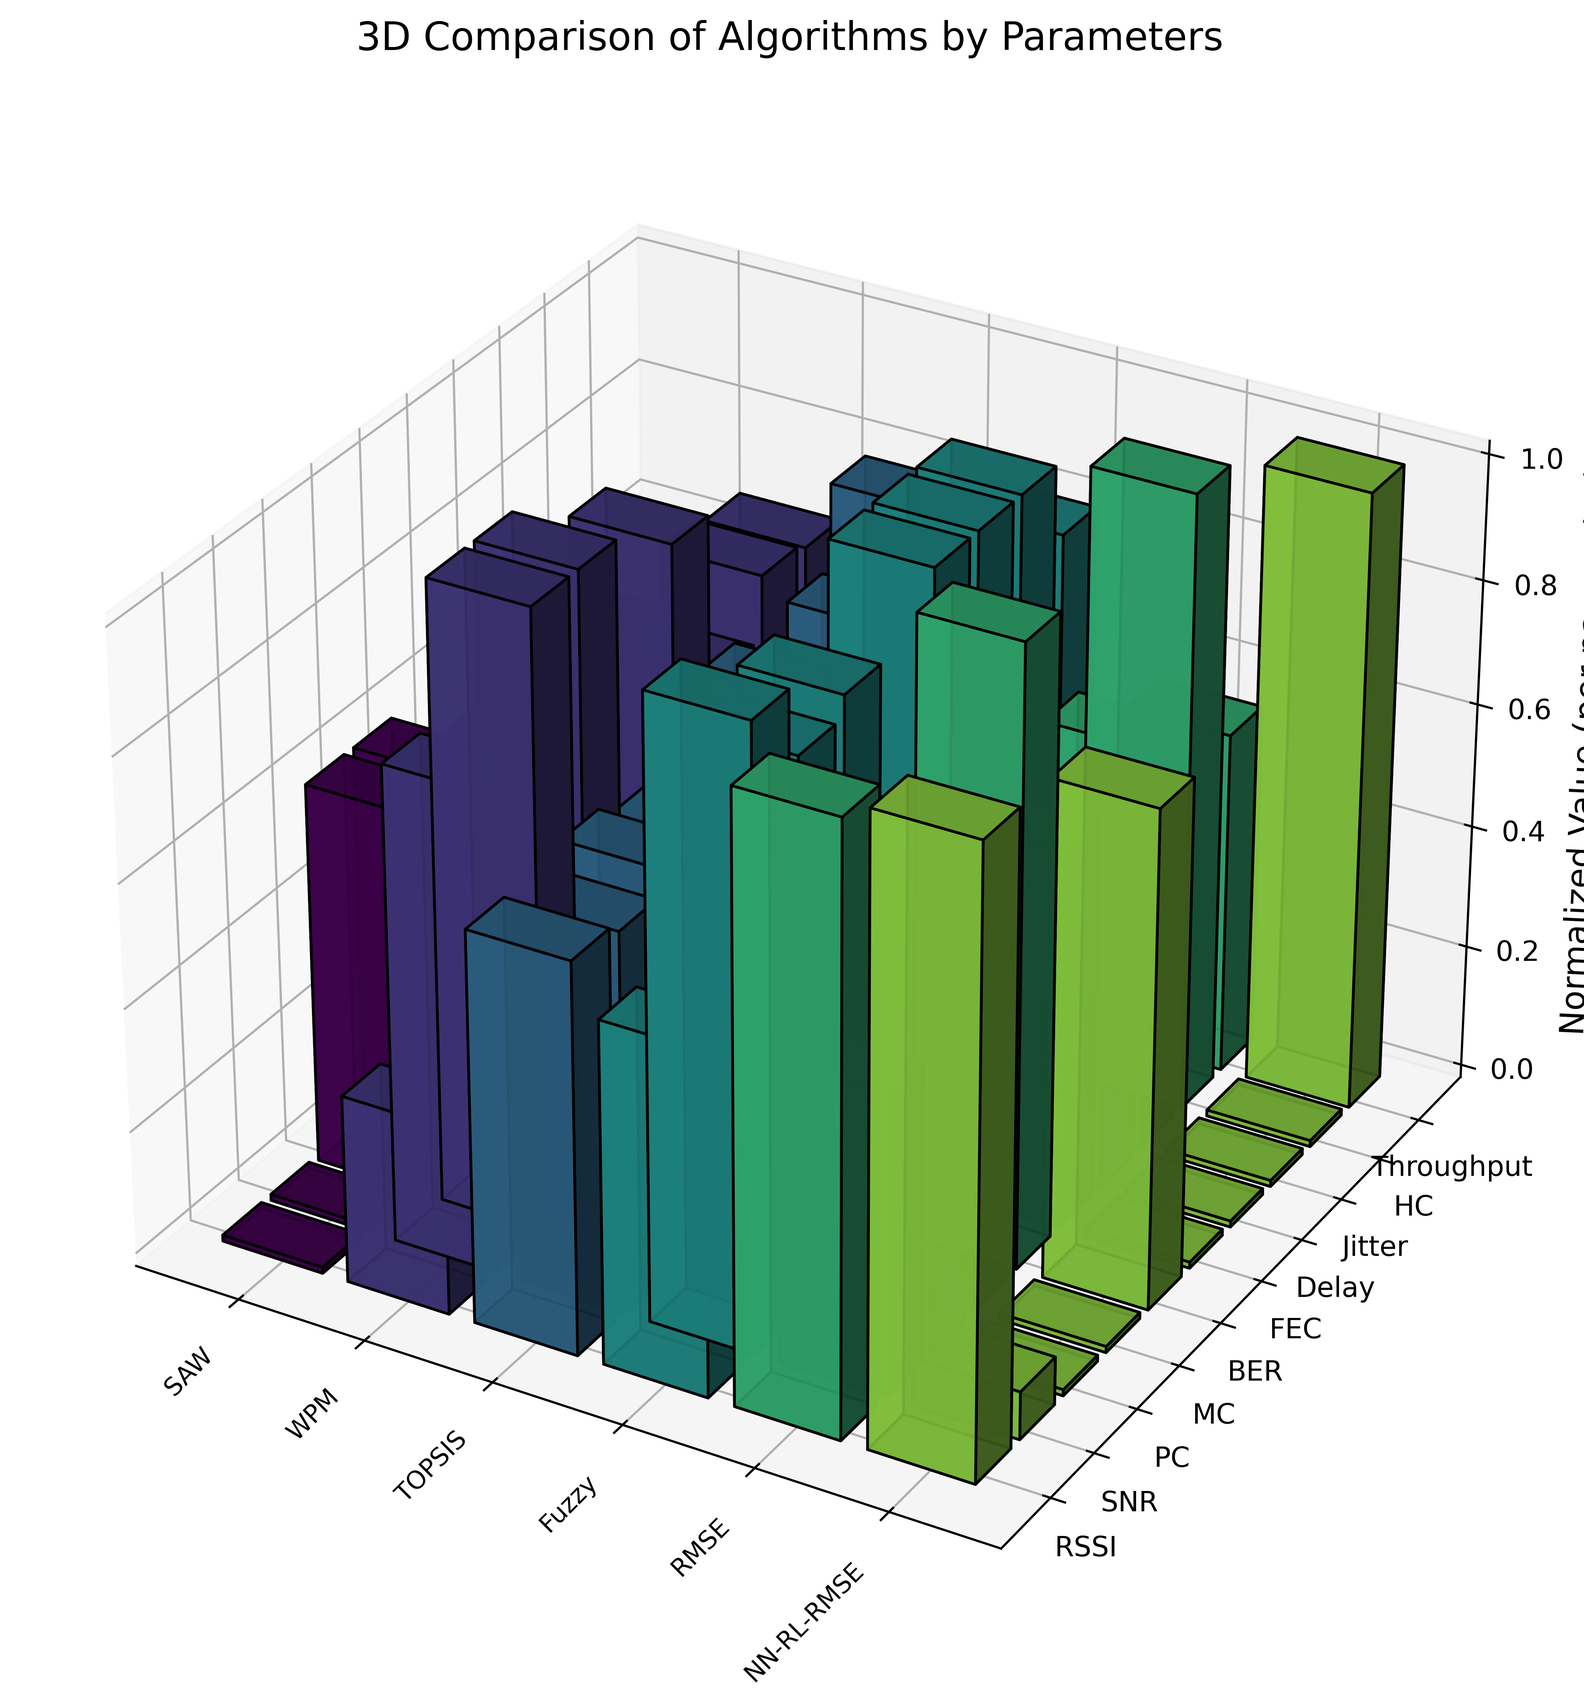
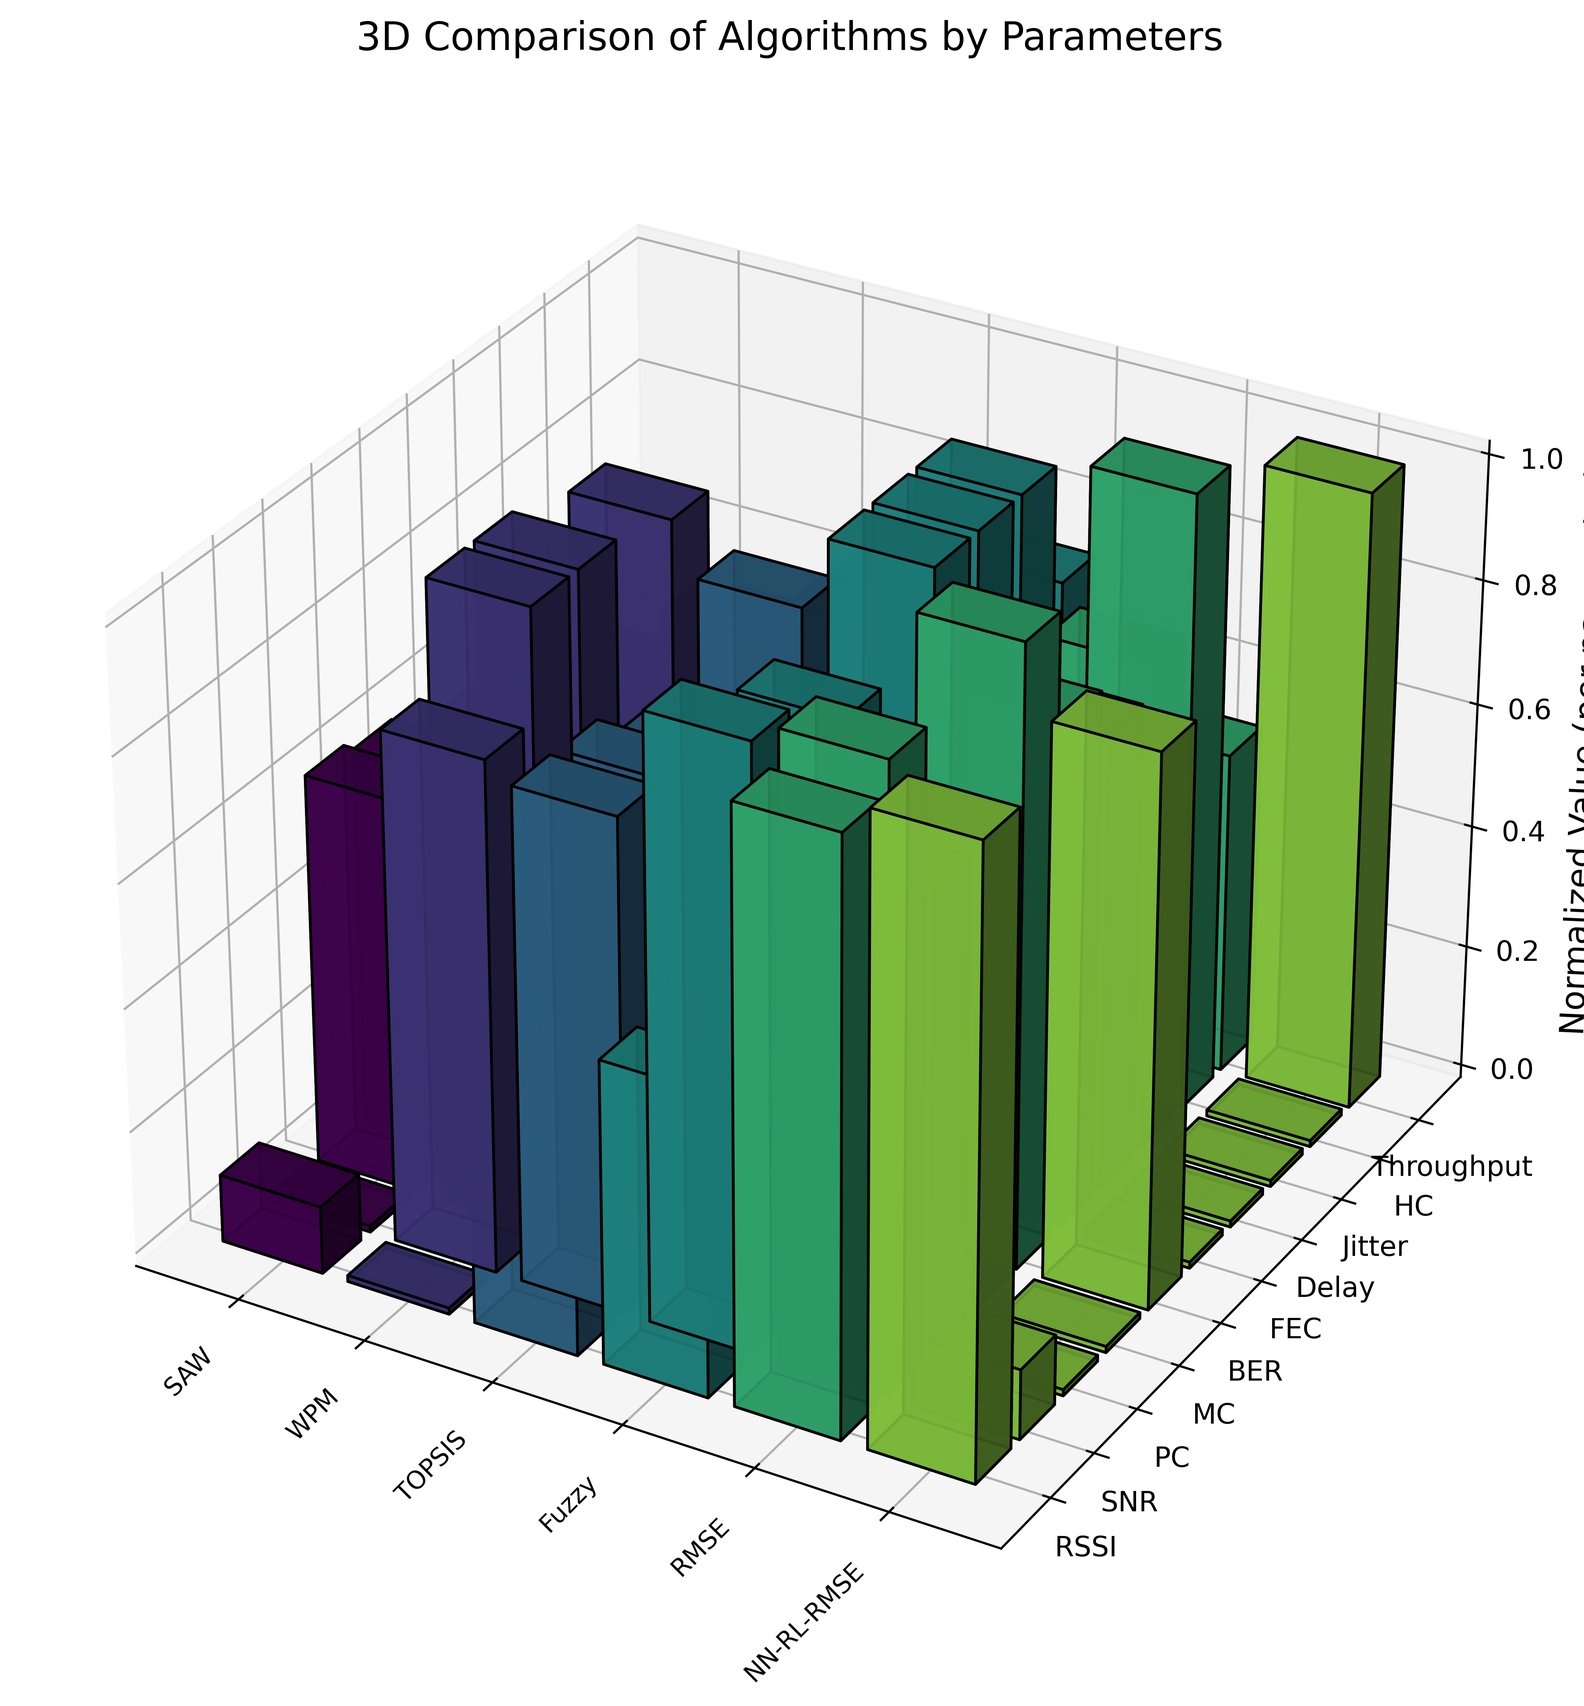
updates

Changed region(s): [[0.1246, 0.2486, 0.5916, 0.7768], [0.6539, 0.2797, 0.8096, 0.7147], [0.6228, 0.7768, 0.685, 0.8079]]

diff --git a/VerticalHandoverSimulation.py b/VerticalHandoverSimulation.py
@@ -52,7 +52,7 @@ GUI = False
 verbose = False
 
 # Number of simulations
-n_simulations = 30
+n_simulations = 100
 
 # Iteration x Simulations
 iter_x_simu = n_simulations * n
@@ -1979,6 +1979,7 @@ def print_handover_summary():
         ho_total = sum(handovers.get(name, []))
         hf_exec = getattr(dm, 'hf_execution', 0)
         hf_late = getattr(dm, 'hf_too_late', 0)
+        hf_early = getattr(dm, 'hf_too_early', 0)
         hf_total = hf_exec + hf_late + hf_early
         off_time = s['steps'] * 0.1                   # seconds
         off_fail_time = (s['steps'] - s['no_coverage_steps']) * 0.1

diff --git a/outputs/sim_13/results.md b/outputs/sim_13/results.md
@@ -1,0 +1,162 @@
+========================================================================================================================
+HANDOVER SUMMARY (100 simulations)
+========================================================================================================================
+Algorithm                                         Total      Per simulation
+------------------------------------------------------------------------------------------------------------------------
+SAW            Handovers                           2201               22.01
+               HO failures (total)                  684                6.84
+                 - execution                        212                2.12
+                 - too-late (RLF)                   452                4.52
+                 - too-early (fallback)              20                0.20
+               Disconnections                       589                5.89
+               Time offline                     660.3 s              6.60 s
+                 - due to failures              660.3 s              6.60 s
+                 - no coverage                    0.0 s              0.00 s
+------------------------------------------------------------------------------------------------------------------------
+WPM            Handovers                           2083               20.83
+               HO failures (total)                  907                9.07
+                 - execution                        168                1.68
+                 - too-late (RLF)                   728                7.28
+                 - too-early (fallback)              11                0.11
+               Disconnections                       767                7.67
+               Time offline                     892.5 s              8.93 s
+                 - due to failures              892.5 s              8.93 s
+                 - no coverage                    0.0 s              0.00 s
+------------------------------------------------------------------------------------------------------------------------
+TOPSIS         Handovers                           2995               29.95
+               HO failures (total)                 1064               10.64
+                 - execution                        271                2.71
+                 - too-late (RLF)                   772                7.72
+                 - too-early (fallback)              21                0.21
+               Disconnections                       896                8.96
+               Time offline                    1038.0 s             10.38 s
+                 - due to failures             1038.0 s             10.38 s
+                 - no coverage                    0.0 s              0.00 s
+------------------------------------------------------------------------------------------------------------------------
+Fuzzy          Handovers                           4106               41.06
+               HO failures (total)                 1217               12.17
+                 - execution                        306                3.06
+                 - too-late (RLF)                   889                8.89
+                 - too-early (fallback)              22                0.22
+               Disconnections                      1017               10.17
+               Time offline                    1189.2 s             11.89 s
+                 - due to failures             1189.2 s             11.89 s
+                 - no coverage                    0.0 s              0.00 s
+------------------------------------------------------------------------------------------------------------------------
+RMSE           Handovers                           6553               65.53
+               HO failures (total)                 1377               13.77
+                 - execution                        742                7.42
+                 - too-late (RLF)                   557                5.57
+                 - too-early (fallback)              78                0.78
+               Disconnections                      1133               11.33
+               Time offline                    1293.3 s             12.93 s
+                 - due to failures             1293.3 s             12.93 s
+                 - no coverage                    0.0 s              0.00 s
+------------------------------------------------------------------------------------------------------------------------
+NN-RL-RMSE     Handovers                            487                4.87
+               HO failures (total)                  244                2.44
+                 - execution                         52                0.52
+                 - too-late (RLF)                   190                1.90
+                 - too-early (fallback)               2                0.02
+               Disconnections                       199                1.99
+               Time offline                     242.1 s              2.42 s
+                 - due to failures              242.1 s              2.42 s
+                 - no coverage                    0.0 s              0.00 s
+------------------------------------------------------------------------------------------------------------------------
+========================================================================================================================
+Results: [{'RSSI': np.float64(-92.1376969333333), 'SNR': 9.81151133333333, 'Throughput': 25.31539738333335, 'PC': 0.8964999999999966, 'MC': 3.2347333333333324, 'BER': np.float64(0.0019000286860824515), 'FEC': np.float64(0.525368473289003), 'Delay': np.float64(517.890542875014), 'Jitter': np.float64(158.96020412967263), 'HC': 0.12974583333333325, 'Handover': 22.01, 'Algorithm': 'SAW'}, {'RSSI': np.float64(-91.40207943333337), 'SNR': 8.689801399999997, 'Throughput': 26.958051716666663, 'PC': 1.0700216666666627, 'MC': 3.8143666666666673, 'BER': np.float64(0.0018311562935052763), 'FEC': np.float64(0.4634746578068949), 'Delay': np.float64(492.6376147265227), 'Jitter': np.float64(167.64841186830367), 'HC': 0.1615416666666667, 'Handover': 20.83, 'Algorithm': 'WPM'}, {'RSSI': np.float64(-92.07382049999997), 'SNR': 9.092820733333332, 'Throughput': 27.184377150000003, 'PC': 0.9854833333333307, 'MC': 3.4386, 'BER': np.float64(0.0021320170454397764), 'FEC': np.float64(0.4750636169372104), 'Delay': np.float64(542.2003033931672), 'Jitter': np.float64(182.5585744810349), 'HC': 0.19624333333333324, 'Handover': 29.95, 'Algorithm': 'TOPSIS'}, {'RSSI': np.float64(-92.91026004999996), 'SNR': 9.013944350000001, 'Throughput': 23.868516066666672, 'PC': 0.9792941666666632, 'MC': 3.595916666666667, 'BER': np.float64(0.002182769193839308), 'FEC': np.float64(0.46112823431672484), 'Delay': np.float64(624.9121250248471), 'Jitter': np.float64(227.57589483722322), 'HC': 0.22498416666666665, 'Handover': 41.06, 'Algorithm': 'Fuzzy'}, {'RSSI': np.float64(-93.72254651666667), 'SNR': 8.956608283333338, 'Throughput': 24.740883566666668, 'PC': 0.9806074999999974, 'MC': 3.3500833333333344, 'BER': np.float64(0.002685865328112539), 'FEC': np.float64(0.4778890988693903), 'Delay': np.float64(585.2524269452862), 'Jitter': np.float64(195.36654675532398), 'HC': 0.2892841666666664, 'Handover': 65.53, 'Algorithm': 'RMSE'}, {'RSSI': np.float64(-95.25308816666667), 'SNR': 9.32060583333333, 'Throughput': 19.936270100000005, 'PC': 0.7053141666666639, 'MC': 2.495916666666666, 'BER': np.float64(0.0026461548318903335), 'FEC': np.float64(0.5812587856212847), 'Delay': np.float64(496.05592308765415), 'Jitter': np.float64(109.19359504856261), 'HC': 0.04281499999999999, 'Handover': 4.87, 'Algorithm': 'NN-RL-RMSE'}, {'RSSI': np.float64(-86.8404171833333), 'SNR': 11.995956400000004, 'Throughput': 30.05888926666665, 'PC': 0.20003500000000243, 'MC': 1.0004833333333334, 'BER': np.float64(0.000209592715950108), 'FEC': np.float64(0.6711086802240689), 'Delay': np.float64(191.88210396051906), 'Jitter': np.float64(39.508046721633825), 'HC': 0.0, 'Handover': 0.0, 'Algorithm': 'Benchmark'}]
+Embedding vs OneHot: mean diff = 11.18, sd_d = 39.55, z now = 2.83, n for 80% power = 98
+OneHot vs noProtocol: mean diff = -19.61, sd_d = 68.38, z now = -2.87, n for 80% power = 95
+Embedding vs noProtocol: mean diff = -8.42, sd_d = 74.55, z now = -1.13, n for 80% power = 614
+========================================================================================================================
+[np.float64(28617.79557009645), np.float64(31031.133876786258), np.float64(29912.94617639642), np.float64(31873.49338565326), np.float64(31230.597900824716), np.float64(27219.227061859314)]
+========================================================================================================================
+RMSE of each Decision Maker: [np.float64(0.3004917232791882), np.float64(0.8190134705956517), np.float64(0.5787634241654892), np.float64(1.0), np.float64(0.8618696395730779), np.float64(0.0)]
+========================================================================================================================
+Best option using RMSE: 5
+========================================================================================================================
+Normal Mean 1: [np.float64(0.47696325950160745), np.float64(0.5171855646131043), np.float64(0.49854910293994037), np.float64(0.5312248897608877), np.float64(0.5205099650137452), np.float64(0.4536537843643219)]
+Normal Standard Deviation 1: [np.float64(0.22938068276970627), np.float64(0.2426439701218836), np.float64(0.2697344647173709), np.float64(0.2743699484350317), np.float64(0.2849900465175149), np.float64(0.17818691084460195)]
+Normal Mean 2: [np.float64(286.1779557009645), np.float64(310.3113387678626), np.float64(299.12946176396423), np.float64(318.73493385653256), np.float64(312.30597900824716), np.float64(272.1922706185931)]
+Normal Standard Deviation 2: [np.float64(70.71703878771672), np.float64(82.19250419728345), np.float64(83.96131336538345), np.float64(79.94795037809806), np.float64(94.75427700432283), np.float64(59.62821328300585)]
+Network Choices: {'SAW': Counter({'5G-N28': 13526, 'LoRa-868': 13504, 'WiFi-2.4GHz': 7590, '5G-N78': 7076, 'Offline': 6603, 'LTE-4G': 5420, 'NB-IoT': 4808, 'WiFi-5GHz': 1473}), 'WPM': Counter({'5G-N28': 17454, 'Offline': 8925, '5G-N78': 8416, 'WiFi-2.4GHz': 6900, 'LTE-4G': 6753, 'NB-IoT': 5392, 'LoRa-868': 4720, 'WiFi-5GHz': 1440}), 'TOPSIS': Counter({'5G-N28': 11242, 'WiFi-2.4GHz': 10788, 'Offline': 10380, '5G-N78': 7755, 'LTE-4G': 7003, 'LoRa-868': 6284, 'NB-IoT': 4934, 'WiFi-5GHz': 1614}), 'FUZZY': Counter({'5G-N28': 12627, 'Offline': 11892, 'WiFi-2.4GHz': 11454, 'NB-IoT': 8715, '5G-N78': 5604, 'LTE-4G': 4559, 'LoRa-868': 3583, 'WiFi-5GHz': 1566}), 'RMSE': Counter({'Offline': 12933, 'WiFi-2.4GHz': 11141, '5G-N28': 10982, 'LoRa-868': 7663, 'LTE-4G': 7273, '5G-N78': 5185, 'NB-IoT': 3353, 'WiFi-5GHz': 1470}), 'RMSE-RL-NN': Counter({'LoRa-868': 28903, '5G-N28': 12303, 'LTE-4G': 7047, '5G-N78': 4009, 'WiFi-2.4GHz': 3672, 'Offline': 2421, 'WiFi-5GHz': 1402, 'NB-IoT': 243})}
+========================================================================================================================
+Indicators to Measure Deviation from a Benchmark
+Aggregated results: {'SAW': {'RSSI': np.float64(0.41349194954149565), 'SNR': 0.4173535954534866, 'Throughput': 0.5317937301147165, 'PC': 0.7722797772294974, 'MC': 0.7332308166979589, 'BER': np.float64(0.40939116224312727), 'FEC': np.float64(0.6046437802102205), 'Delay': np.float64(0.45211809202356273), 'Jitter': np.float64(0.4193404874111268), 'HC': 0.3544493969525129}, 'WPM': {'RSSI': np.float64(0.40225646227362255), 'SNR': 0.5113437078717599, 'Throughput': 0.4511328974024501, 'PC': 0.855366476181839, 'MC': 0.8227502293009799, 'BER': np.float64(0.41008172365948664), 'FEC': np.float64(0.7013341548267614), 'Delay': np.float64(0.45699639132577696), 'Jitter': np.float64(0.4492266737988315), 'HC': 0.3968750853018281}, 'TOPSIS': {'RSSI': np.float64(0.4344572861699332), 'SNR': 0.5080831137591957, 'Throughput': 0.4789174295085608, 'PC': 0.8078512047873044, 'MC': 0.7632963358331392, 'BER': np.float64(0.4444398436087808), 'FEC': np.float64(0.6812309234453274), 'Delay': np.float64(0.4803455799326371), 'Jitter': np.float64(0.4679178911519508), 'HC': 0.43622146516037774}, 'Fuzzy': {'RSSI': np.float64(0.45257366642942537), 'SNR': 0.5279974075616386, 'Throughput': 0.5050908324090064, 'PC': 0.8219886133993946, 'MC': 0.7953654820269738, 'BER': np.float64(0.46013449503769), 'FEC': np.float64(0.7101862447801044), 'Delay': np.float64(0.5472270410964748), 'Jitter': np.float64(0.5450798017468003), 'HC': 0.46382903639164297}, 'RMSE': {'RSSI': np.float64(0.499843641062816), 'SNR': 0.5315614819139364, 'Throughput': 0.5764561198578233, 'PC': 0.797241166118851, 'MC': 0.7477575271733777, 'BER': np.float64(0.5028458062558612), 'FEC': np.float64(0.6658267106793581), 'Delay': np.float64(0.5024089031155089), 'Jitter': np.float64(0.4856822480329193), 'HC': 0.526859287033391}, 'NN-RL-RMSE': {'RSSI': np.float64(0.5048567780892538), 'SNR': 0.4303131907115396, 'Throughput': 0.6905618919976259, 'PC': 0.6295771079288044, 'MC': 0.5907877862086633, 'BER': np.float64(0.4925219060334706), 'FEC': np.float64(0.4661971974510184), 'Delay': np.float64(0.37612275316411065), 'Jitter': np.float64(0.2643983813087175), 'HC': 0.2047138246430856}}
+Algorithm: SAW
+RMSE: RSSI: 0.41349194954149565
+RMSE: SNR: 0.4173535954534866
+RMSE: Throughput: 0.5317937301147165
+RMSE: PC: 0.7722797772294974
+RMSE: MC: 0.7332308166979589
+RMSE: BER: 0.40939116224312727
+RMSE: FEC: 0.6046437802102205
+RMSE: Delay: 0.45211809202356273
+RMSE: Jitter: 0.4193404874111268
+RMSE: HC: 0.3544493969525129
+--------------------------------------------------
+Algorithm: WPM
+RMSE: RSSI: 0.40225646227362255
+RMSE: SNR: 0.5113437078717599
+RMSE: Throughput: 0.4511328974024501
+RMSE: PC: 0.855366476181839
+RMSE: MC: 0.8227502293009799
+RMSE: BER: 0.41008172365948664
+RMSE: FEC: 0.7013341548267614
+RMSE: Delay: 0.45699639132577696
+RMSE: Jitter: 0.4492266737988315
+RMSE: HC: 0.3968750853018281
+--------------------------------------------------
+Algorithm: TOPSIS
+RMSE: RSSI: 0.4344572861699332
+RMSE: SNR: 0.5080831137591957
+RMSE: Throughput: 0.4789174295085608
+RMSE: PC: 0.8078512047873044
+RMSE: MC: 0.7632963358331392
+RMSE: BER: 0.4444398436087808
+RMSE: FEC: 0.6812309234453274
+RMSE: Delay: 0.4803455799326371
+RMSE: Jitter: 0.4679178911519508
+RMSE: HC: 0.43622146516037774
+--------------------------------------------------
+Algorithm: Fuzzy
+RMSE: RSSI: 0.45257366642942537
+RMSE: SNR: 0.5279974075616386
+RMSE: Throughput: 0.5050908324090064
+RMSE: PC: 0.8219886133993946
+RMSE: MC: 0.7953654820269738
+RMSE: BER: 0.46013449503769
+RMSE: FEC: 0.7101862447801044
+RMSE: Delay: 0.5472270410964748
+RMSE: Jitter: 0.5450798017468003
+RMSE: HC: 0.46382903639164297
+--------------------------------------------------
+Algorithm: RMSE
+RMSE: RSSI: 0.499843641062816
+RMSE: SNR: 0.5315614819139364
+RMSE: Throughput: 0.5764561198578233
+RMSE: PC: 0.797241166118851
+RMSE: MC: 0.7477575271733777
+RMSE: BER: 0.5028458062558612
+RMSE: FEC: 0.6658267106793581
+RMSE: Delay: 0.5024089031155089
+RMSE: Jitter: 0.4856822480329193
+RMSE: HC: 0.526859287033391
+--------------------------------------------------
+Algorithm: NN-RL-RMSE
+RMSE: RSSI: 0.5048567780892538
+RMSE: SNR: 0.4303131907115396
+RMSE: Throughput: 0.6905618919976259
+RMSE: PC: 0.6295771079288044
+RMSE: MC: 0.5907877862086633
+RMSE: BER: 0.4925219060334706
+RMSE: FEC: 0.4661971974510184
+RMSE: Delay: 0.37612275316411065
+RMSE: Jitter: 0.2643983813087175
+RMSE: HC: 0.2047138246430856
+--------------------------------------------------
+RMSE of the Normalized Results
+{'RSSI': [np.float64(0.1095073360988755), np.float64(0.0), np.float64(0.31384722006289195), np.float64(0.4904195835636693), np.float64(0.951139165736622), np.float64(1.0)], 'SNR': [0.0, 0.8229739235286704, 0.7944242829248814, 0.9687930977206901, 1.0, 0.11347373337953265], 'Throughput': [0.33688832402544644, 0.0, 0.11604497672927427, 0.22536090542328796, 0.5234254216673653, 1.0], 'PC': [0.6320167791991466, 1.0, 0.7895593058160036, 0.8521725666682454, 0.7425684366243103, 0.0], 'MC': [0.6140779886190714, 1.0, 0.7436917258015807, 0.8819431848150199, 0.6767032579590633, 0.0], 'BER': [np.float64(0.0), np.float64(0.007389268063182346), np.float64(0.3750341327165923), np.float64(0.5429728327641863), np.float64(1.0), np.float64(0.8895303670411089)], 'FEC': [np.float64(0.5674294984744499), np.float64(0.9637193142469076), np.float64(0.8813253231989435), np.float64(1.0), np.float64(0.8181904696692579), np.float64(0.0)], 'Delay': [np.float64(0.4441463143781195), np.float64(0.47265699263851807), np.float64(0.6091187312016676), np.float64(1.0), np.float64(0.7380653721624904), np.float64(0.0)], 'Jitter': [np.float64(0.5520212412370519), np.float64(0.658498493422319), np.float64(0.7250907791672977), np.float64(1.0), np.float64(0.7883808852713718), np.float64(0.0)], 'HC': [0.46480733019920817, 0.5965046325126365, 0.7186431831121117, 0.8043422677008507, 1.0, 0.0]}
+/home/vinicius/Desktop/Projects/Vertical_Handover/Vertical_Handover/VerticalHandoverSimulation.py:1662: UserWarning: Tight layout not applied. The left and right margins cannot be made large enough to accommodate all Axes decorations.
+  plt.tight_layout()
+
